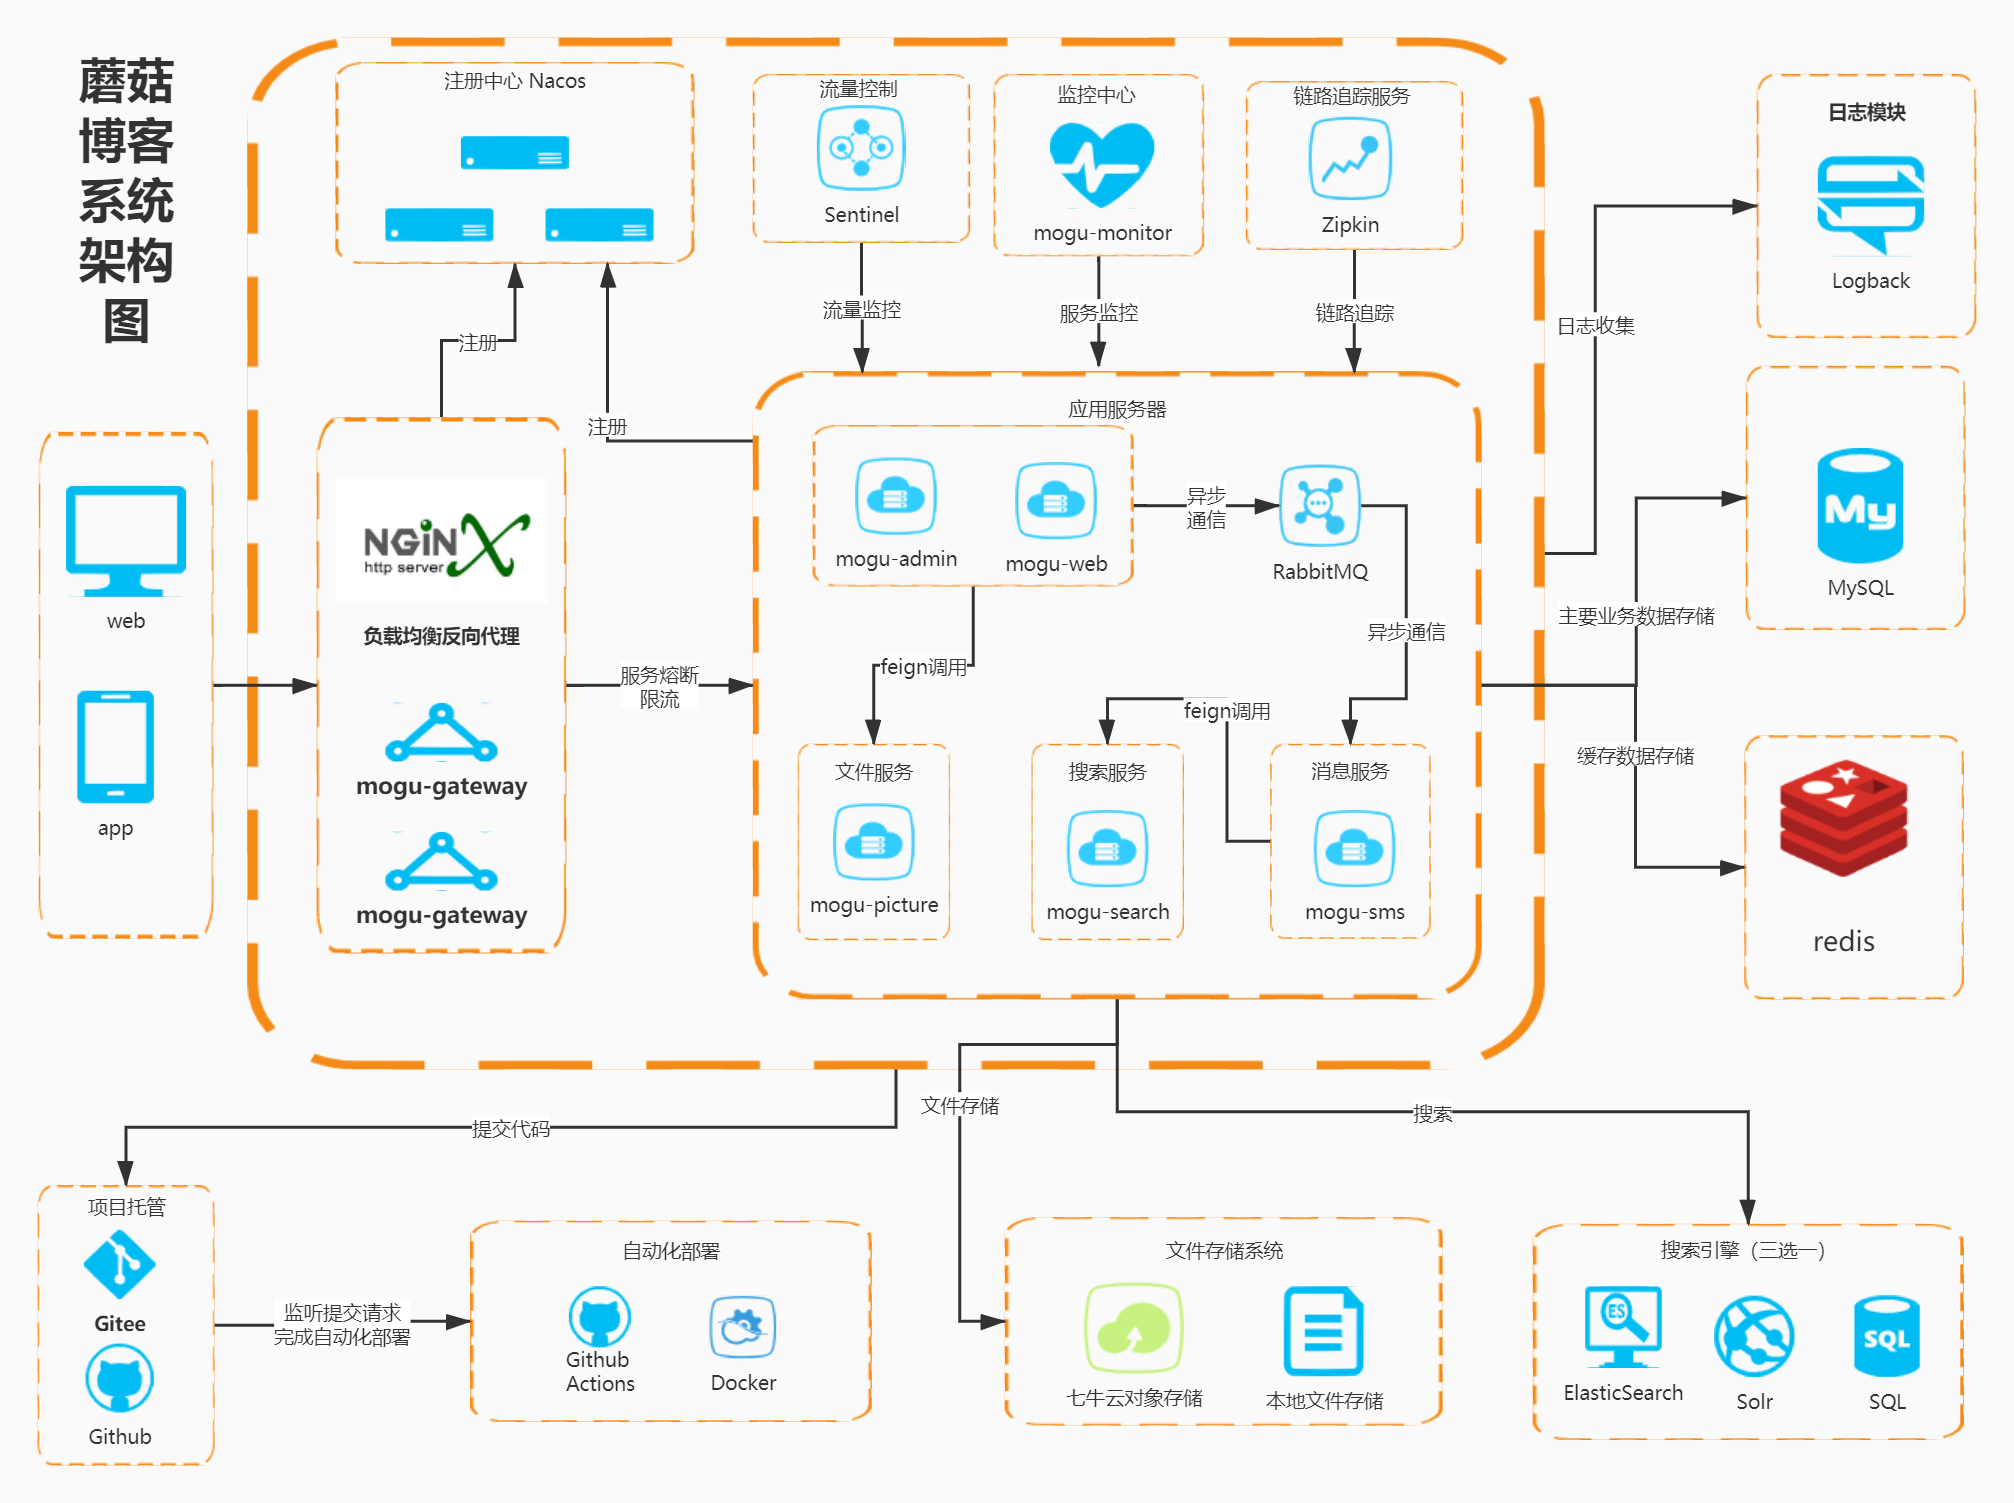
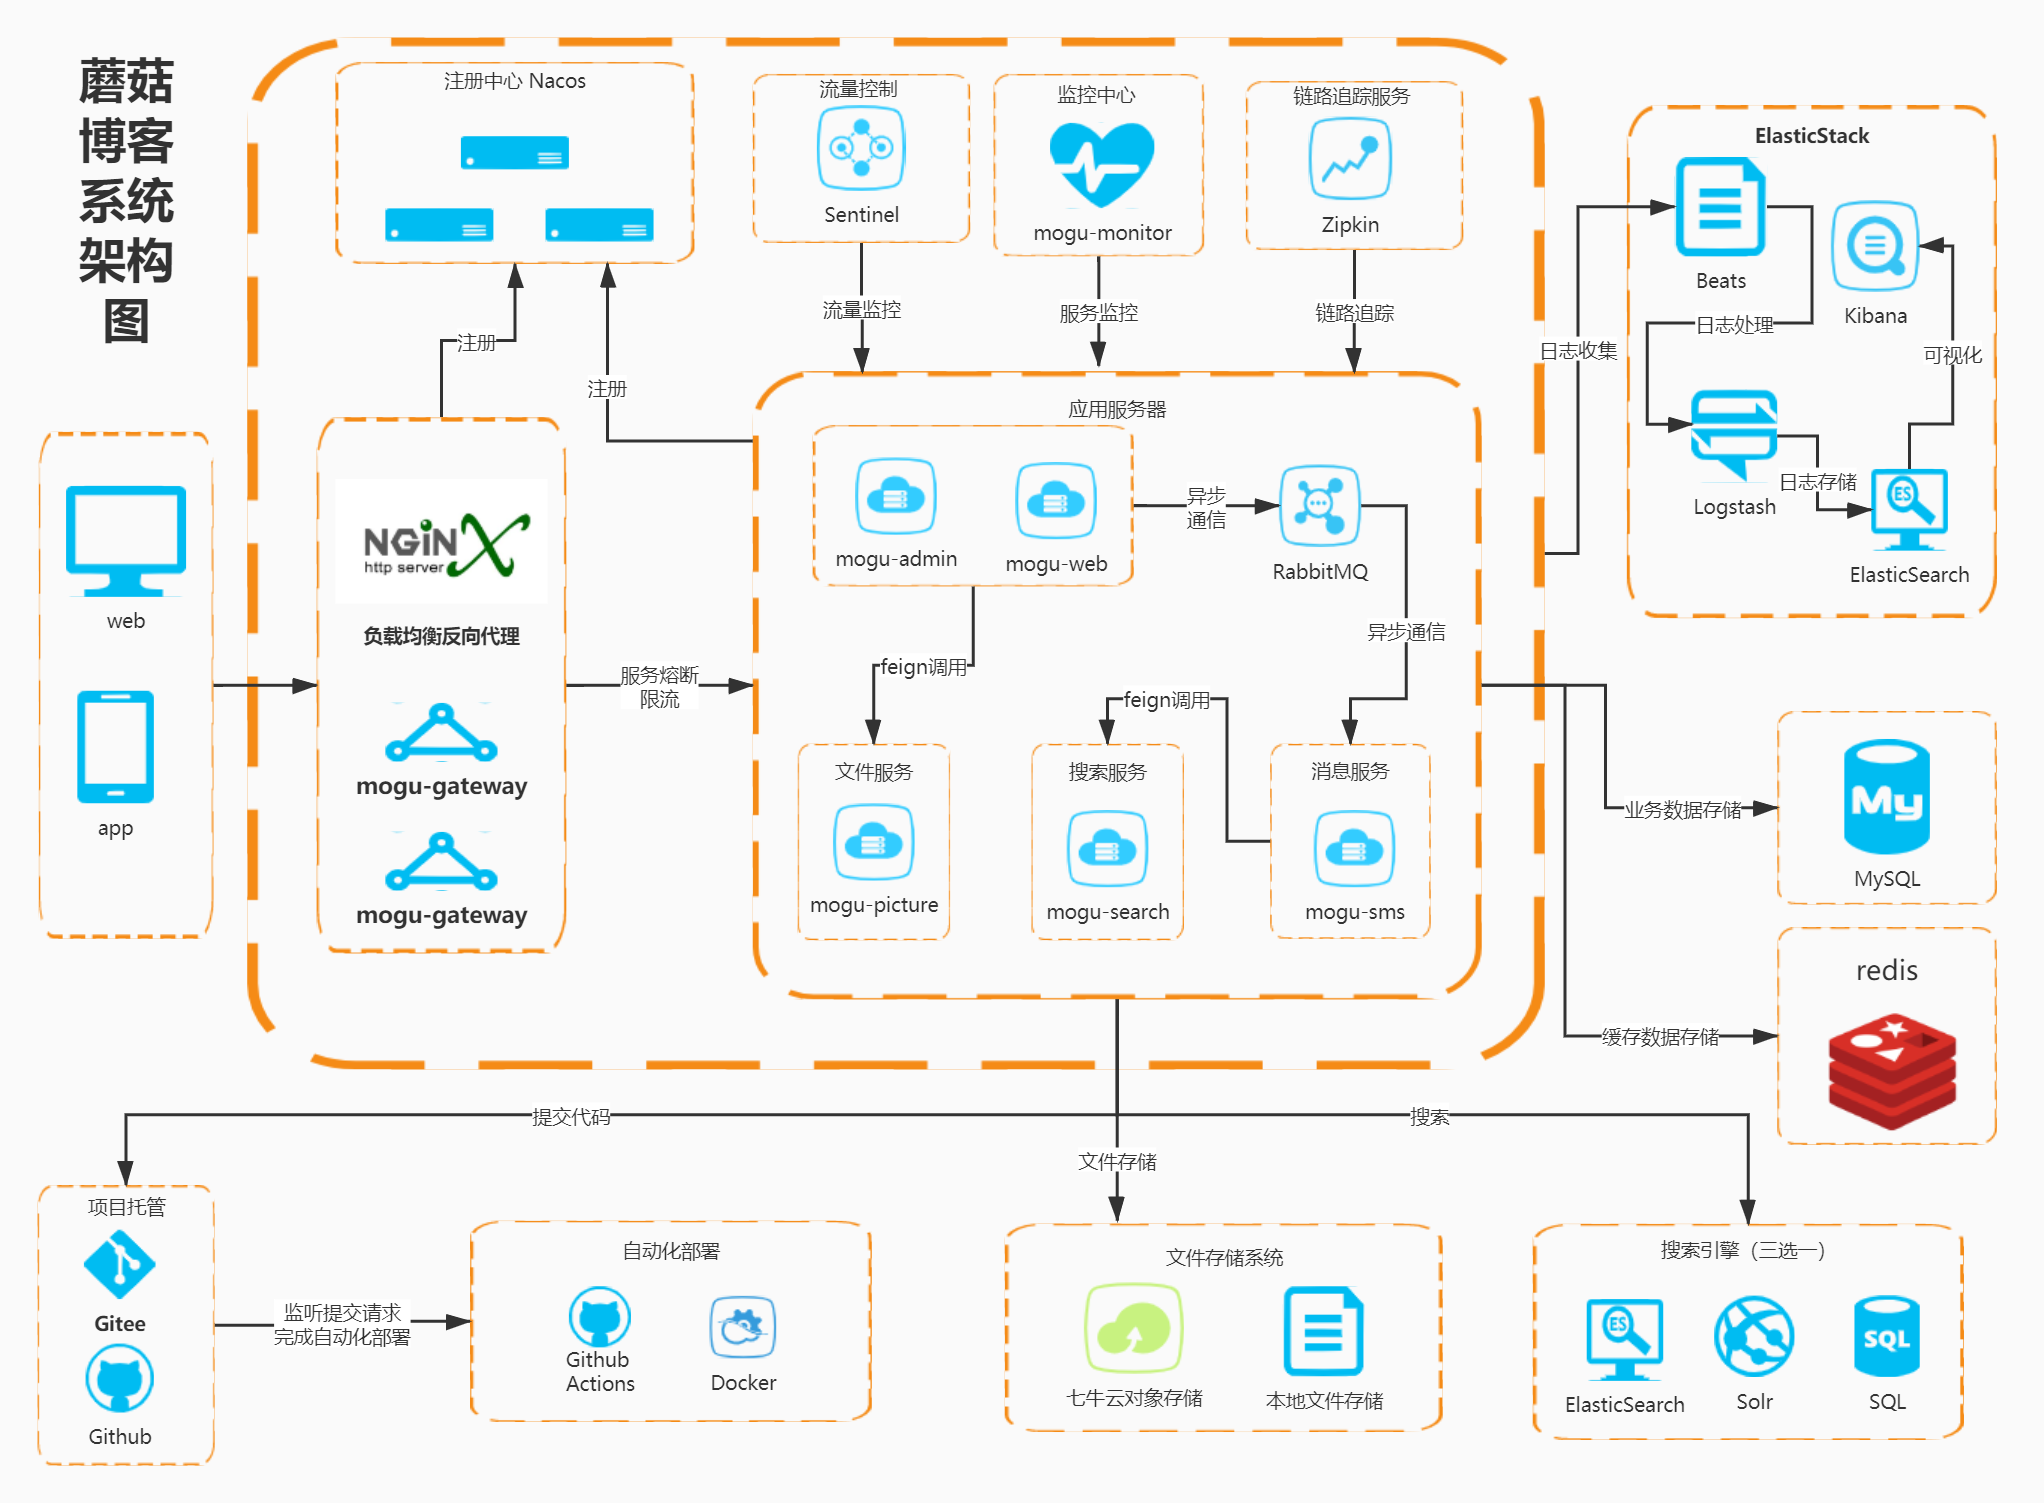
docs: 更新README

diff --git a/vue_mogu_web/config/prod.env.js b/vue_mogu_web/config/prod.env.js
@@ -4,10 +4,10 @@ module.exports = {
   //配置线上环境
 
   // 如果没有域名使用这个
-  //VUE_MOGU_WEB: '"http://120.78.126.96:8602"',
+  //VUE_MOGU_WEB: '"http://47.115.54.30:8602"',
   // 如果有域名使用这个
-  VUE_MOGU_WEB: '"http://nacosweb.moguit.cn"',
-  PICTURE_API: '"http://120.78.126.96:8602"',
-  WEB_API: '"http://120.78.126.96:8603"',
-  ELASTICSEARCH: '"http://120.78.126.96:8605"',
+  VUE_MOGU_WEB: '"http://demoweb.moguit.cn"',
+  PICTURE_API: '"http://47.115.54.30:8602"',
+  WEB_API: '"http://47.115.54.30:8603"',
+  ELASTICSEARCH: '"http://47.115.54.30:8605"',
 }

diff --git a/README.md b/README.md
@@ -164,32 +164,34 @@
 
 ### 后端技术
 
-|      技术      |          说明           |                             官网                             |
-| :------------: | :---------------------: | :----------------------------------------------------------: |
-|   SpringBoot   |         MVC框架         | [ https://spring.io/projects/spring-boot](https://spring.io/projects/spring-boot) |
-|  SpringCloud   |       微服务框架        |           https://spring.io/projects/spring-cloud/           |
-| SpringSecurity |     认证和授权框架      |          https://spring.io/projects/spring-security          |
-|  MyBatis-Plus  |         ORM框架         |                   https://mp.baomidou.com/                   |
-|   Swagger-UI   |      文档生产工具       | [ https://github.com/swagger-api/swagger-ui](https://github.com/swagger-api/swagger-ui) |
-|     Kibana     |    分析和可视化平台     |               https://www.elastic.co/cn/kibana               |
-| Elasticsearch  |        搜索引擎         | [ https://github.com/elastic/elasticsearch](https://github.com/elastic/elasticsearch) |
-|      Solr      |        搜索引擎         |                http://lucene.apache.org/solr/                |
-|    RabbitMQ    |        消息队列         |   [ https://www.rabbitmq.com/](https://www.rabbitmq.com/)    |
-|     Redis      |       分布式缓存        |                      https://redis.io/                       |
-|     Docker     |       容器化部署        |      [ https://www.docker.com](https://www.docker.com/)      |
-|     Druid      |      数据库连接池       | [ https://github.com/alibaba/druid](https://github.com/alibaba/druid) |
-|     七牛云     |    七牛云 - 对象储存    |         https://developer.qiniu.com/sdk#official-sdk         |
-|      JWT       |       JWT登录支持       |                 https://github.com/jwtk/jjwt                 |
-|     SLF4J      |        日志框架         |                    http://www.slf4j.org/                     |
-|     Lombok     |    简化对象封装工具     | [ https://github.com/rzwitserloot/lombok](https://github.com/rzwitserloot/lombok) |
-|     Nginx      | HTTP和反向代理web服务器 |                      http://nginx.org/                       |
-|    JustAuth    |    第三方登录的工具     |             https://github.com/justauth/JustAuth             |
-|     Hutool     |     Java工具包类库      |                  https://hutool.cn/docs/#/                   |
-|    阿里大于    |      短信发送平台       |            https://doc.alidayu.com/doc2/index.htm            |
-| Github Actions |       自动化部署        |              https://help.github.com/en/actions              |
-|     Zipkin     |        链路追踪         |             https://github.com/openzipkin/zipkin             |
-| Flexmark-java  |    Markdown转换Html     |            https://github.com/vsch/flexmark-java             |
-|   Ip2region    |    离线IP地址定位库     |          https://github.com/lionsoul2014/ip2region           |
+|      技术      |           说明            |                             官网                             |
+| :------------: | :-----------------------: | :----------------------------------------------------------: |
+|   SpringBoot   |          MVC框架          | [ https://spring.io/projects/spring-boot](https://spring.io/projects/spring-boot) |
+|  SpringCloud   |        微服务框架         |           https://spring.io/projects/spring-cloud/           |
+| SpringSecurity |      认证和授权框架       |          https://spring.io/projects/spring-security          |
+|  MyBatis-Plus  |          ORM框架          |                   https://mp.baomidou.com/                   |
+|   Swagger-UI   |       文档生产工具        | [ https://github.com/swagger-api/swagger-ui](https://github.com/swagger-api/swagger-ui) |
+|     Kibana     |     分析和可视化平台      |               https://www.elastic.co/cn/kibana               |
+| Elasticsearch  |         搜索引擎          | [ https://github.com/elastic/elasticsearch](https://github.com/elastic/elasticsearch) |
+|                |     轻量型数据采集器      |               https://www.elastic.co/cn/beats/               |
+|    Logstash    | 用于接收Beats的数据并处理 |              https://www.elastic.co/cn/logstash              |
+|      Solr      |         搜索引擎          |                http://lucene.apache.org/solr/                |
+|    RabbitMQ    |         消息队列          |   [ https://www.rabbitmq.com/](https://www.rabbitmq.com/)    |
+|     Redis      |        分布式缓存         |                      https://redis.io/                       |
+|     Docker     |        容器化部署         |      [ https://www.docker.com](https://www.docker.com/)      |
+|     Druid      |       数据库连接池        | [ https://github.com/alibaba/druid](https://github.com/alibaba/druid) |
+|     七牛云     |     七牛云 - 对象储存     |         https://developer.qiniu.com/sdk#official-sdk         |
+|      JWT       |        JWT登录支持        |                 https://github.com/jwtk/jjwt                 |
+|     SLF4J      |         日志框架          |                    http://www.slf4j.org/                     |
+|     Lombok     |     简化对象封装工具      | [ https://github.com/rzwitserloot/lombok](https://github.com/rzwitserloot/lombok) |
+|     Nginx      |  HTTP和反向代理web服务器  |                      http://nginx.org/                       |
+|    JustAuth    |     第三方登录的工具      |             https://github.com/justauth/JustAuth             |
+|     Hutool     |      Java工具包类库       |                  https://hutool.cn/docs/#/                   |
+|    阿里大于    |       短信发送平台        |            https://doc.alidayu.com/doc2/index.htm            |
+| Github Actions |        自动化部署         |              https://help.github.com/en/actions              |
+|     Zipkin     |         链路追踪          |             https://github.com/openzipkin/zipkin             |
+| Flexmark-java  |     Markdown转换Html      |            https://github.com/vsch/flexmark-java             |
+|   Ip2region    |     离线IP地址定位库      |          https://github.com/lionsoul2014/ip2region           |
 
 ### 前端技术
 
